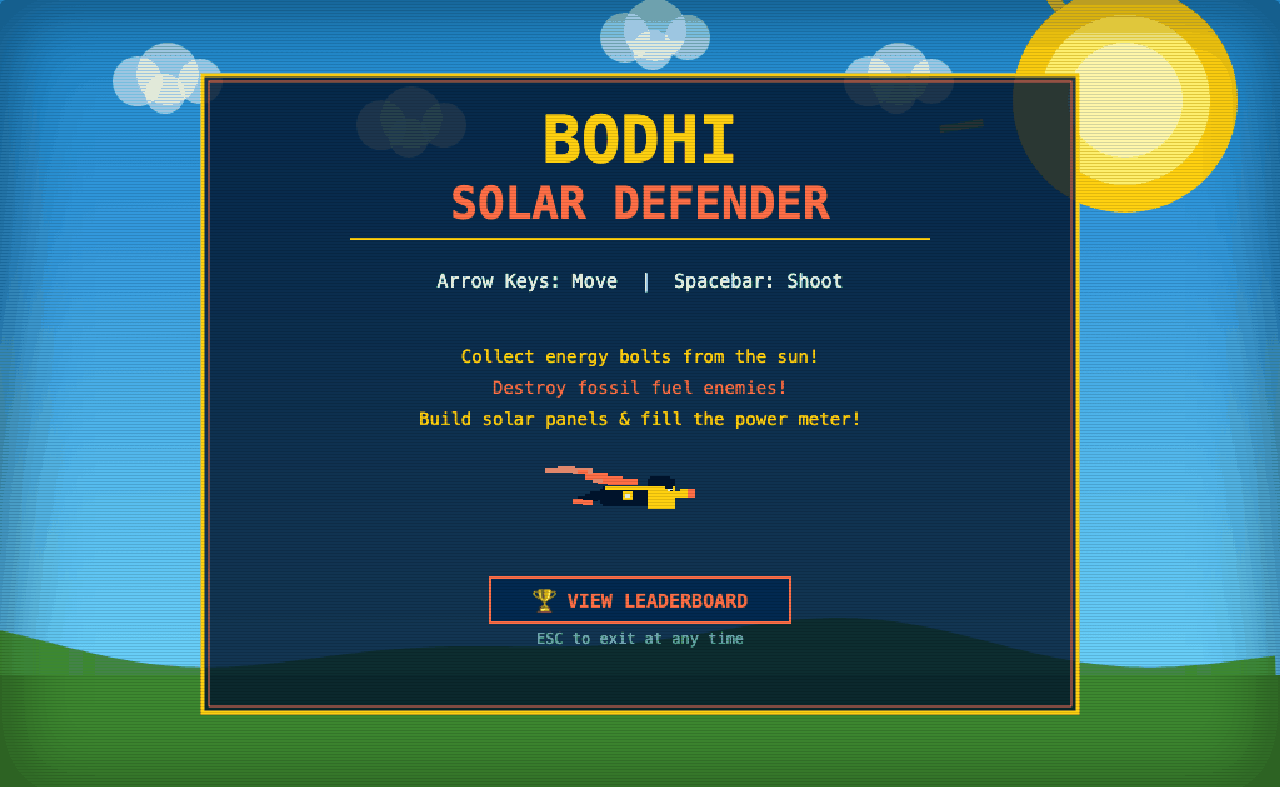
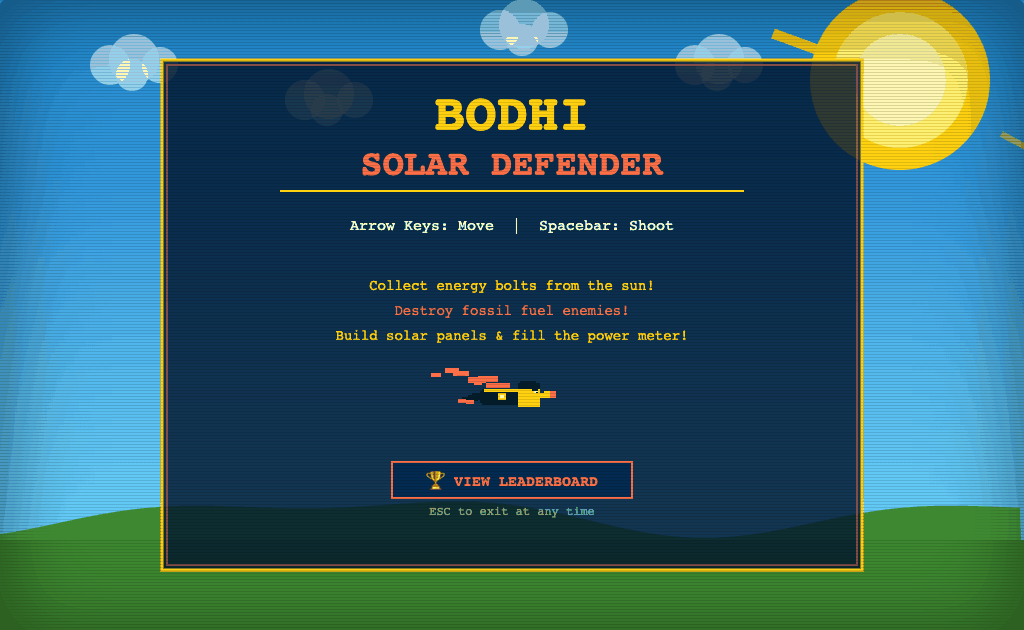
Update the published site

Changed region(s): [[0.0, 0.0, 1.0, 0.9349], [0.3125, 0.4222, 0.6875, 0.5429], [0.4062, 0.573, 0.5312, 0.6333]]

diff --git a/styles/site.css b/styles/site.css
@@ -622,28 +622,31 @@ h1,h2,h3,h4,p{margin:0}
 }
 
 /* ===========================================================================
-   Thanks page — the arcade game aside
+   Thanks page — the arcade game band
 
    The only image on this site that is not a partner logo. It exists because
    the thanks page is the one post-conversion surface, permanently noindex,
    where a diversion costs nothing. See the amendment to hard rule 2 in
    docs-internal/CLAUDE.md: one screenshot, this page only, software we built.
 
+   It is its own band below the arrival band rather than a fourth item inside
+   it, so the change of register is carried by the section boundary. That is
+   why there is no longer a hairline rule: two devices doing one job.
+
    Nothing here is invented. The card's hairline, radius, lift and focus ring
-   are .mini's values, so the two behave identically; only the width and the
-   overflow clip are new.
+   are .mini's values, so the two behave identically; only the width cap and
+   the corner clip are new.
    =========================================================================== */
 
-/* A rule, not a heading, because the break here is a change of register rather
-   than a new section. Same hairline weight as the form's .fh underline. */
-.game-rule{
-  width:64px;height:0;margin:var(--s6) auto var(--s5);
-  border:0;border-top:1px solid var(--rule-soft);
-}
+/* Tint, not white. The card is white, and site.css already documents the same
+   reasoning for .form--partner: a white card on a white ground is not a
+   surface. Tint also separates the band from the white footer below it. */
+.sec--game{background:var(--tint);padding:var(--s7) 0}
 
-/* .close-sub already centres and caps the measure; this only softens the line
-   so the joke sits below the instructions rather than beside them in weight. */
-.game-lede{font-size:16px;margin-bottom:var(--s4)}
+.game-lede{
+  font-size:16px;max-width:46ch;margin:0 auto var(--s5);
+  text-align:center;
+}
 
 .game-card{
   display:block;max-width:520px;margin:0 auto;
@@ -658,17 +661,38 @@ h1,h2,h3,h4,p{margin:0}
 }
 .game-card:focus-visible{outline:2px solid var(--ink);outline-offset:3px}
 
-/* No image-rendering:pixelated. The file is 1085px wide and never displays
-   larger than 520, so it is always downscaled, and nearest-neighbour
-   downscaling drops whole rows of a pixel grid. The default filter is kinder. */
+/* The source is captured at the game's own internal resolution, 1024x640, so
+   every game pixel is one image pixel. Capturing at a larger viewport scales
+   the canvas by a non-integer factor, which doubles some pixel rows and not
+   others and reads as a vertical stretch in the type and the sun.
+
+   No image-rendering:pixelated either: the file only ever displays smaller
+   than native, and nearest-neighbour downscaling drops whole rows of a pixel
+   grid. The default filter is kinder. */
 .game-card img{display:block;width:100%;height:auto}
 
 .game-cta{
   display:block;padding:14px 18px;font-size:14px;font-weight:600;
-  color:var(--ink);letter-spacing:-.01em;
+  color:var(--ink);letter-spacing:-.01em;text-align:center;
   border-top:1px solid rgba(0,20,45,.08);
 }
 /* .arw is scoped to .tlink, so it carries no gap or slide of its own here. */
 .game-cta .arw{display:inline-block;margin-left:7px;transition:transform .18s ease}
 .game-card:hover .game-cta,.game-card:focus-visible .game-cta{color:var(--accent-text)}
 .game-card:hover .game-cta .arw,.game-card:focus-visible .game-cta .arw{transform:translateX(5px)}
+
+/* The sentence and its link now share one line, so this paragraph needs a
+   wider measure than .close-sub's 40em: it wants 826px and 40em caps it at 700,
+   which broke the link across two lines mid-phrase. 50em holds it on one line
+   down to about 940px of viewport, and it wraps naturally below that. Still
+   well inside the 1084px the band has to give. */
+.close-act{max-width:50em}
+
+/* A .tlink set inline mid-sentence rather than on its own line. Its own rule
+   pins 14px, which reads as a typo next to .lede's 17.5px, so the size and
+   weight come from the sentence and only the colour and underline mark it as
+   a link. It must stay wrappable: the label is long enough to overflow 320px
+   on one line. */
+.tlink--inline{font-size:inherit;font-weight:500;color:var(--accent-text);
+  border-bottom-color:rgba(190,67,25,.36)}
+.tlink--inline:hover{border-bottom-color:var(--accent-text)}

diff --git a/thanks/index.html b/thanks/index.html
@@ -62,21 +62,25 @@
            OneEthos application to complete, and a page that only promised a call
            would leave them waiting on their own next step. Carried in copy rather
            than by routing, per BUILD-SPEC step 5. -->
-      <p class="lede close-sub">Not yet an approved OneEthos installer? That is the first step.</p>
-      <p><a class="tlink" href="https://www.oneethos.com/become-an-approved-installer" target="_blank" rel="noopener">Start the
-      OneEthos application<span class="arw">&rarr;</span></a></p>
+      <p class="lede close-sub close-act">Not yet an approved OneEthos installer? That is the first step.
+      <a class="tlink tlink--inline" href="https://www.oneethos.com/become-an-approved-installer"
+         target="_blank" rel="noopener">Start the OneEthos
+         application<span class="arw">&rarr;</span></a></p>
+    </div>
+  </section>
 
-      <!-- An aside, not a fourth instruction, which is what the rule above it is
-           for. It sits below the OneEthos link deliberately: that link is
-           somebody's actual next step and must not be upstaged by a diversion.
-           The screenshot is the one image on this site; see the amendment to
-           hard rule 2 in docs-internal/CLAUDE.md. -->
-      <hr class="game-rule">
-      <p class="lede close-sub game-lede">In the meantime, take a break. We made a game
+  <!-- An aside, and now its own band rather than a fourth item inside the
+       arrival band. It stays BELOW that band deliberately: the OneEthos link is
+       somebody's actual next step and must not be upstaged by a diversion.
+       The screenshot is the one image on this site; see the amendment to hard
+       rule 2 in docs-internal/CLAUDE.md. -->
+  <section class="sec sec--game" aria-labelledby="game-lede">
+    <div class="wrap">
+      <p class="lede game-lede" id="game-lede">In the meantime, take a break. We made a game
       where the enemies are fossil fuels. Subtle, we know.</p>
       <a class="game-card" href="https://games.bodhi.solar/bodhi-solar-defender.html"
          target="_blank" rel="noopener">
-        <img src="../assets/game-bodhi-solar-defender.png" width="1280" height="787"
+        <img src="../assets/game-bodhi-solar-defender.png" width="1024" height="630"
              loading="lazy" decoding="async"
              alt="Title screen of Bodhi Solar Defender, a pixel-art arcade game: a pixel sun over green hills, and a panel reading Bodhi Solar Defender above the objectives collect energy bolts from the sun, destroy fossil fuel enemies, and build solar panels to fill the power meter.">
         <span class="game-cta">Play Bodhi Solar Defender<span class="arw">&rarr;</span></span>
